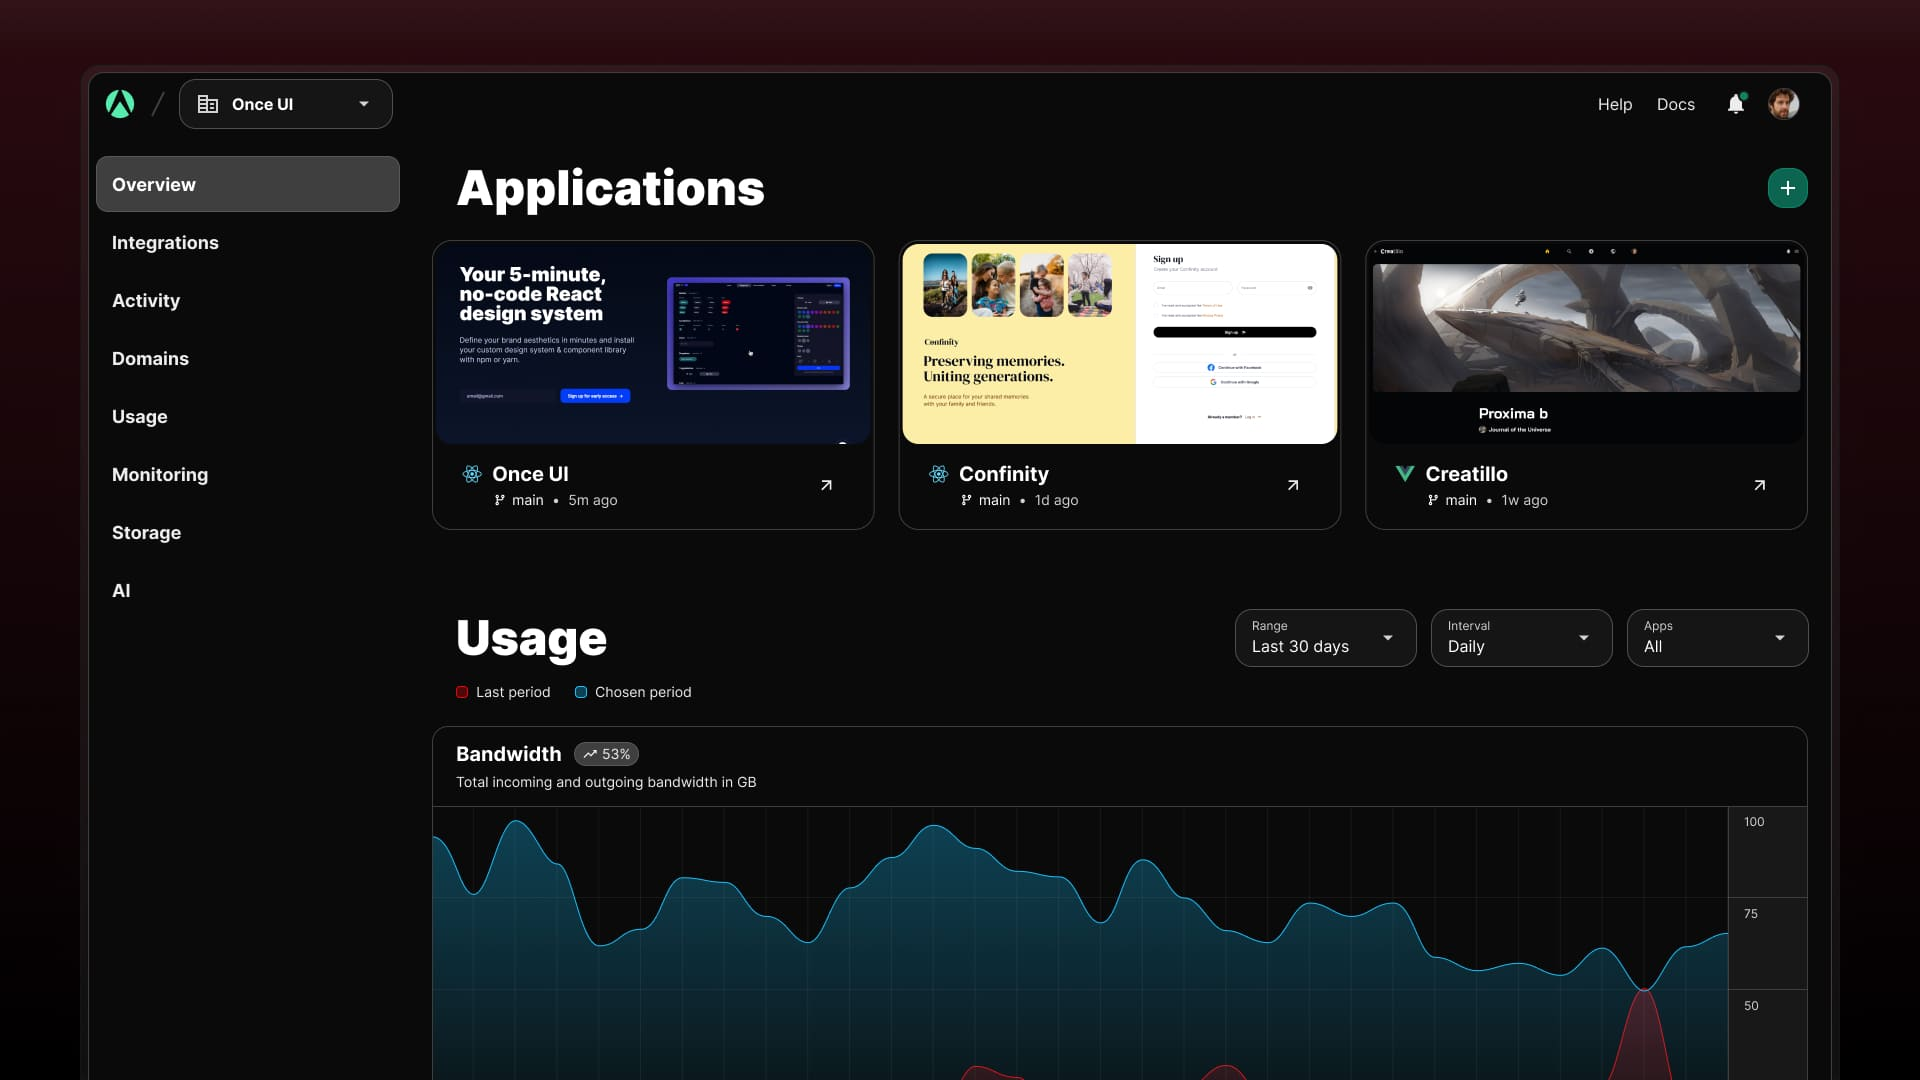
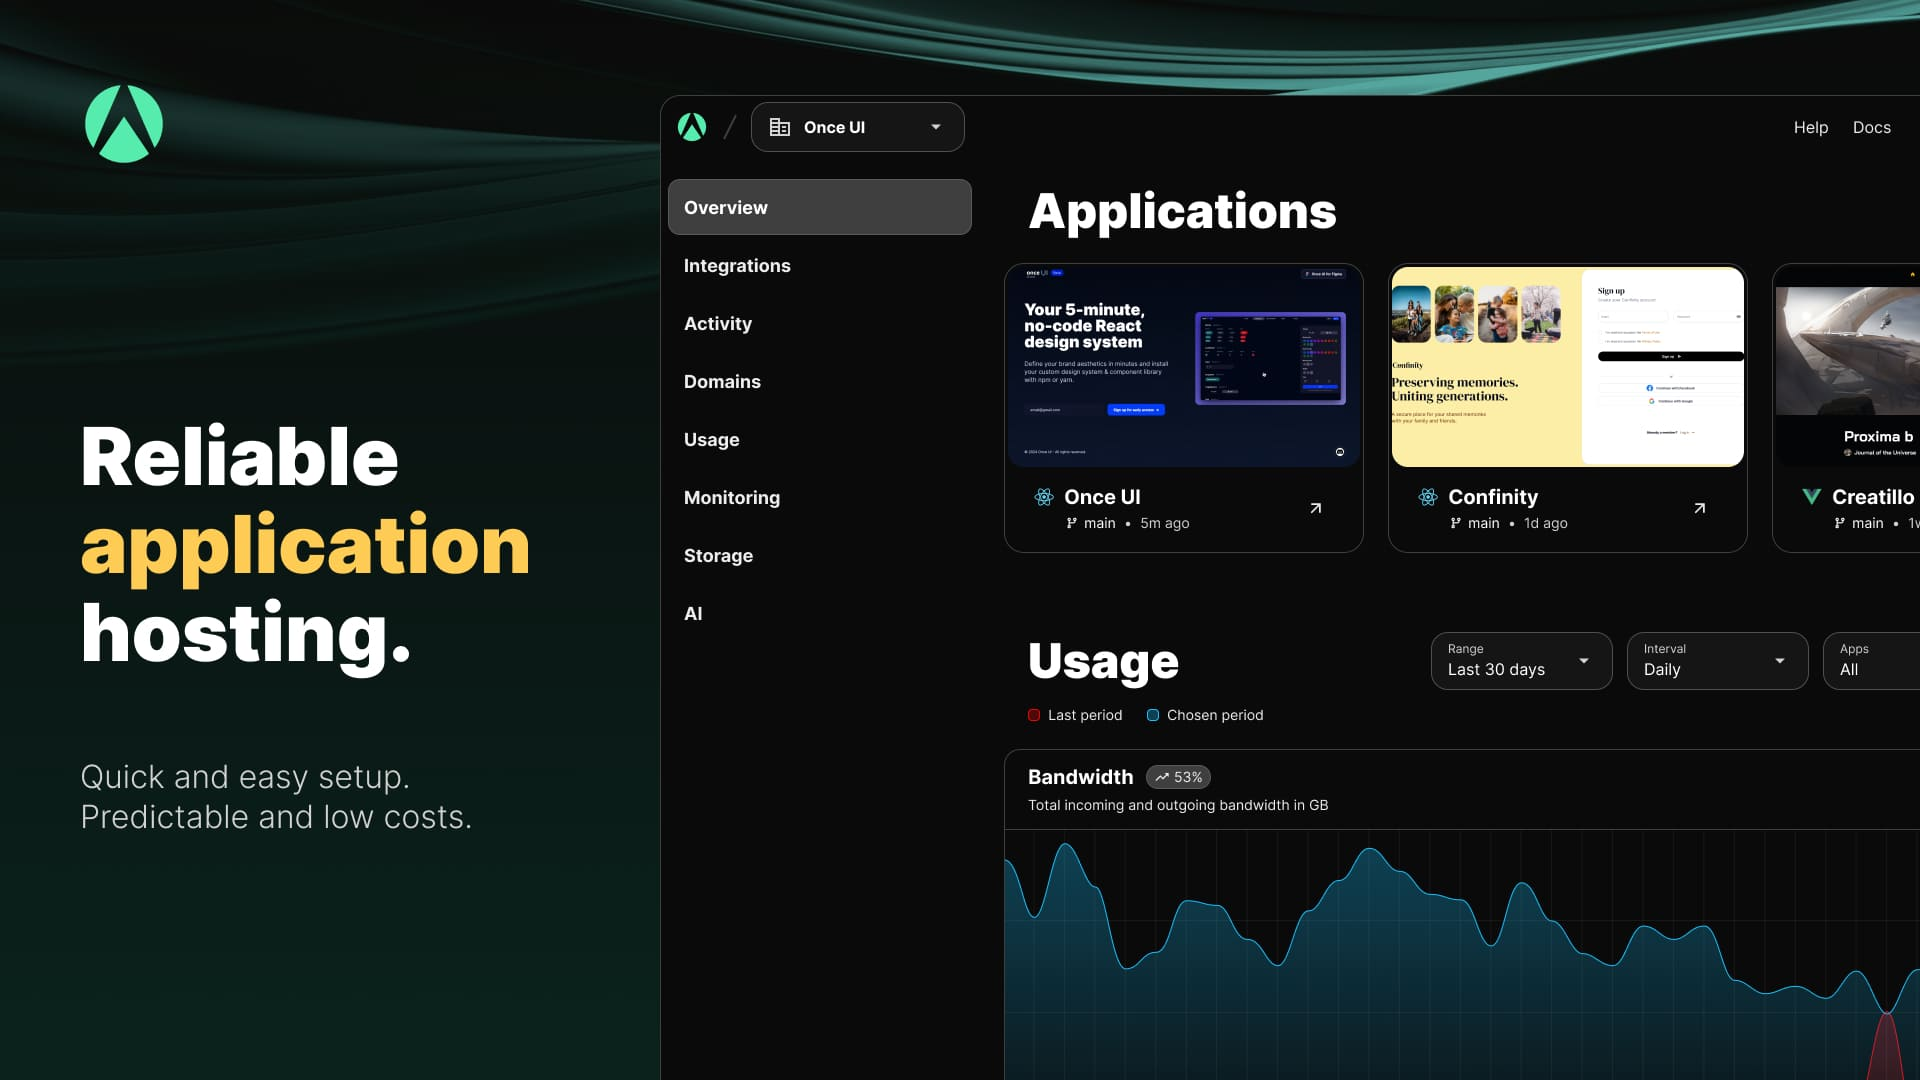
layout adjustments and content updates

diff --git a/src/app/page.tsx b/src/app/page.tsx
@@ -1,6 +1,6 @@
 import React from 'react';
 
-import { Heading, Flex, Text, Button,  Avatar } from '@/once-ui/components';
+import { Heading, Flex, Text, Button,  Avatar, RevealFx } from '@/once-ui/components';
 import { Projects } from '@/app/work/components/Projects';
 
 import { about, baseURL, home, newsletter, person, routes } from '@/app/resources'
@@ -39,7 +39,7 @@ export function generateMetadata() {
 export default function Home() {
 	return (
 		<Flex
-			maxWidth="m" fillWidth gap="24"
+			maxWidth="m" fillWidth gap="xl"
 			direction="column" alignItems="center">
 			<script
 				type="application/ld+json"
@@ -66,39 +66,52 @@ export default function Home() {
 			<Flex
 				fillWidth
 				direction="column"
-				paddingY="l"
-				gap="m">
-				<Heading
-					wrap="balance"
-					variant="display-strong-l">
-					{home.headline}
-				</Heading>
-				<Text
-					wrap="balance" 
-					onBackground="neutral-weak"
-					variant="body-default-l">
-					{home.subline}
-				</Text>
-				<Button
-					data-border="rounded"
-					href="/about"
-					variant="tertiary"
-					suffixIcon="chevronRight"
-					size="m">
+				paddingY="l" gap="m">
+				
 					<Flex
-						gap="8"
-						alignItems="center">
-						{about.avatar.display && (
-							<Avatar
-								style={{marginLeft: '-0.25rem'}}
-								src={person.avatar}
-								size="xs"/>
-							)}
-							About me
+						direction="column"
+						fillWidth maxWidth="s" gap="m">
+						<RevealFx translateY="4">
+							<Heading
+								wrap="balance"
+								variant="display-strong-l">
+								{home.headline}
+							</Heading>
+						</RevealFx>
+						<RevealFx translateY="8" delay={0.2}>
+							<Text
+								wrap="balance"
+								onBackground="neutral-weak"
+								variant="body-default-l">
+								{home.subline}
+							</Text>
+						</RevealFx>
+						<RevealFx translateY="12" delay={0.4}>
+							<Button
+								data-border="rounded"
+								href="/about"
+								variant="tertiary"
+								suffixIcon="chevronRight"
+								size="m">
+								<Flex
+									gap="8"
+									alignItems="center">
+									{about.avatar.display && (
+										<Avatar
+											style={{marginLeft: '-0.75rem', marginRight: '0.25rem'}}
+											src={person.avatar}
+											size="m"/>
+										)}
+										About me
+								</Flex>
+							</Button>
+						</RevealFx>
 					</Flex>
-				</Button>
+				
 			</Flex>
-			<Projects range={[1,1]}/>
+			<RevealFx translateY="16" delay={0.6}>
+				<Projects range={[1,1]}/>
+			</RevealFx>
 			{routes['/blog'] && (
 				<Flex fillWidth paddingX="20">
 					<Posts range={[1,2]} columns="2"/>

diff --git a/src/once-ui/components/RevealFx.module.scss b/src/once-ui/components/RevealFx.module.scss
@@ -1,46 +1,17 @@
-.revealFxContainer {
-    position: relative;
-    display: inline-block;
-    overflow: hidden;
-  }
-  
-  .blurLayer {
-    position: absolute;
-    top: 0;
-    left: 0;
-    width: 100%;
-    height: 100%;
-    transform: translateX(-100%);
-    pointer-events: none;
-    z-index: 1;
-  }
-  
-  .blurLayer:nth-child(1) {
-    transition-delay: 0.1s;
-    backdrop-filter: blur(4px);
-  }
-  
-  .blurLayer:nth-child(2) {
-    transition-delay: 0.2s;
-    backdrop-filter: blur(4px);
-  }
-  
-  .blurLayer:nth-child(3) {
-    transition-delay: 0.3s;
-    backdrop-filter: blur(4px);
-  }
-  
-  .revealed .blurLayer {
-    transform: translateX(100%);
-  }
-  
-  .content {
-    position: relative;
-    z-index: 2;
-    opacity: 0;
-    transition: opacity 0.3s ease 0.6s; /* Adjust delay based on the blur layers */
-  }
-  
-  .revealed .content {
-    opacity: 1;
-  }  
+.revealFx {
+	display: inline-block;
+	position: relative;
+	mask-image: linear-gradient(to right, black 0%, black 25%, transparent 50%);
+	mask-size: 300% 100%;
+	transition: all ease-in-out;
+
+	&.hidden {
+		mask-position: 100% 0;
+		filter: blur(0.5rem);
+	}
+
+	&.revealed {
+		mask-position: 0 0;
+		filter: blur(0);
+	}
+}

diff --git a/src/app/resources/content.js b/src/app/resources/content.js
@@ -48,7 +48,7 @@ const home = {
     title: `${person.name}'s Portfolio`,
     description: `Portfolio website showcasing my work as a ${person.role}`,
     headline: <>Design engineer and builder</>,
-    subline: <>I'm Selene, a design engineer at <InlineCode>FLY</InlineCode>, where I craft intuitive user experiences. After hours, I build my own projects.</>
+    subline: <>I'm Selene, a design engineer at <InlineCode>FLY</InlineCode>, where I craft intuitive<br/> user experiences. After hours, I build my own projects.</>
 }
 
 const about = {

diff --git a/src/app/blog/components/Posts.tsx b/src/app/blog/components/Posts.tsx
@@ -49,7 +49,7 @@ export function Posts({
                                     className={styles.indicator}
                                     width="20" height="2"
                                     background="neutral-strong"/>
-                                <Heading as="h2">
+                                <Heading as="h2" wrap="balance">
                                     {post.metadata.title}
                                 </Heading>
                                 <Text

diff --git a/src/once-ui/tokens/typography.scss b/src/once-ui/tokens/typography.scss
@@ -15,8 +15,8 @@
 
     /* FONT SCALING */
     --font-scaling-desktop: 16px;
-    --font-scaling-tablet:  15px;
-    --font-scaling-mobile:  15px;
+    --font-scaling-tablet:  16px;
+    --font-scaling-mobile:  17px;
 
     /* FONT WEIGHT */
     --font-weight-thin:       100;
